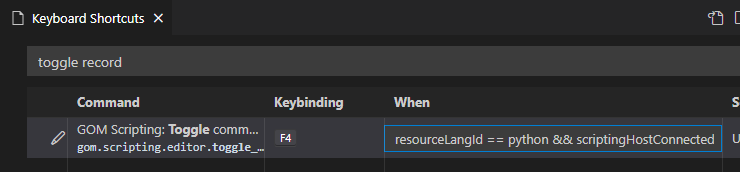
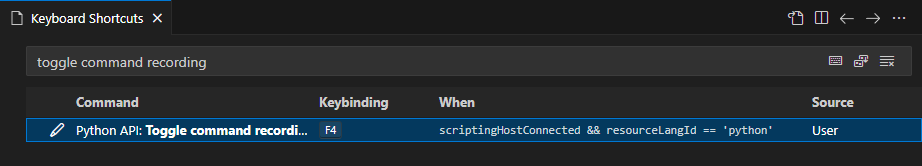
Updated to new VSCode / VSCode Extension versions

diff --git a/doc/howtos/using_vscode_editor/using_vscode_editor.md b/doc/howtos/using_vscode_editor/using_vscode_editor.md
@@ -60,7 +60,7 @@
 3. In that editor, select "Record commands" from the editor toolbar.
 4. Execute commands in the GOM application
     * The executed commands will be recorded in the currently edited VSCode script.
-    * In addition, the "GOM script commands" subsection of the output tab shows a log of the executed commands.
+    * In addition, the "ZEISS INSPECT script commands" subsection of the output tab shows a log of the executed commands.
     
       ![](assets/recording1.png)
 
@@ -164,7 +164,7 @@ Due to an unsolved bug, the script editor window might open below the VSCode win
 
   ![](assets/toggle_recording_1.png)
 
-* Assign the command "GOM Scripting: Toggle recording" to a key:
+* Assign the command "Python API: Toggle command recording" to a key:
 
   ![](assets/toggle_recording_2.png)
 
@@ -180,19 +180,18 @@ Due to an unsolved bug, the script editor window might open below the VSCode win
 
 * See above for the general process.
 * The relevant commands here are:
-  * 'GOM Scripting: Run script in GOM host': Start the script.
-  * 'GOM Scripting: Debug script in GOM host': Start the script with debugger attached.
+  * 'Python API: Run script in ZEISS INSPECT host': Start the script.
+  * 'Python API: Debug script in ZEISS INSPECT host': Start the script with debugger attached.
 * F9 / CTRL + F9 might be valid keys for that.
 
 ### Script editing
 
 #### Can I use local workspaces from disk instead of the application script database for my project ?
 
-* Yes.
-* You can add arbitrary folders to the workspace and edit and starts scripts from right there.
-* A limitation is that environments and packages cannot yet be handled by VSCode. As a workaround, the edited external folder can be added to the internal script editor, so that it can be processed from there:
+* Yes. You can add arbitrary folders to the workspace and edit and starts scripts from right there.
+* The edited external folder can be connected to the ZEISS INSPECT Add-on Explorer, so that it can be used from there:
 
-  ![](assets/script_editing_1.png)
+  ![](assets/03-Add-on_External_Folder_v2.png)
 
 ### Troubleshooting
 
